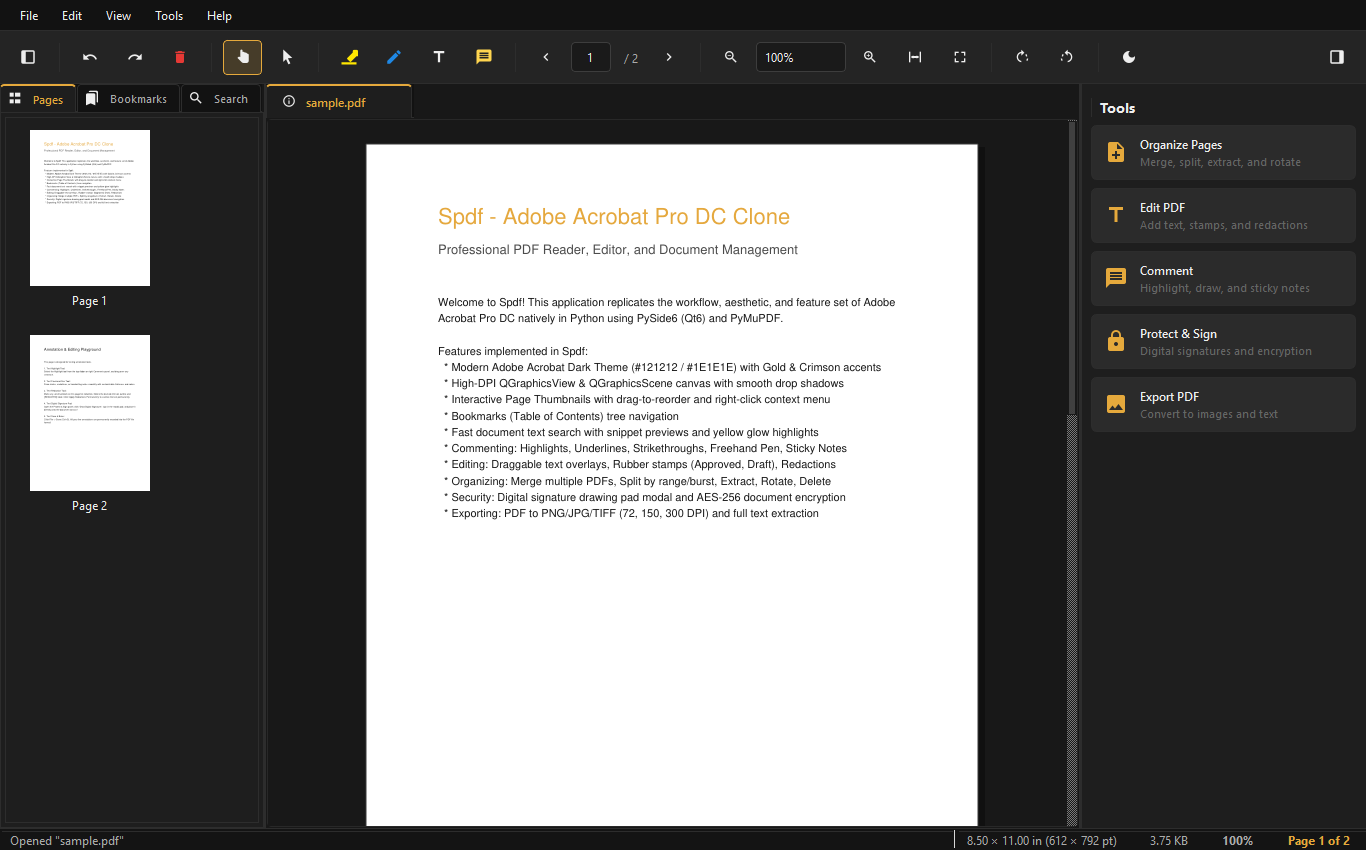
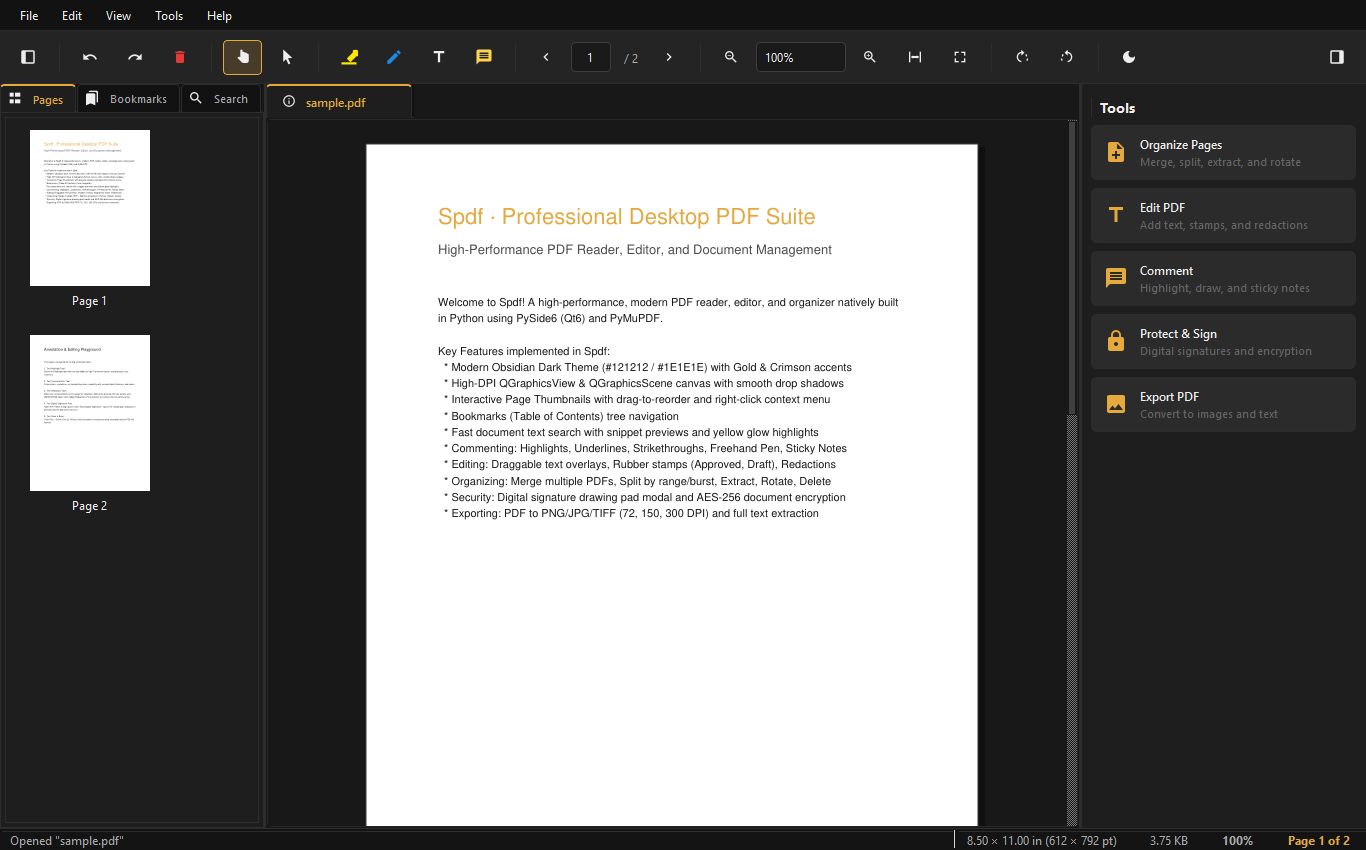
fix: remove all trademark references, update official screenshot and branding

Changed region(s): [[0.3075, 0.3365, 0.6457, 0.4588], [0.3075, 0.2447, 0.6149, 0.3059]]

diff --git a/github_publish.py b/github_publish.py
@@ -1,0 +1,149 @@
+"""
+Script to:
+1. Commit and push updated screenshot and trademark-free files to GitHub.
+2. Set repository topics on GitHub for enhanced search discovery.
+3. Create GitHub Release v1.0.0 and optionally attach the Windows binary zip.
+"""
+
+import subprocess
+import urllib.request
+import json
+import os
+import sys
+
+def get_git_credentials():
+    p = subprocess.Popen(['git', 'credential', 'fill'], stdin=subprocess.PIPE, stdout=subprocess.PIPE, text=True)
+    out, _ = p.communicate(input='protocol=https\nhost=github.com\n\n')
+    username = None
+    token = None
+    for line in out.splitlines():
+        if line.startswith('username='):
+            username = line.split('=', 1)[1]
+        elif line.startswith('password='):
+            token = line.split('=', 1)[1]
+    return username, token
+
+
+def push_updates(token, username):
+    base_dir = os.path.abspath(os.path.dirname(__file__))
+
+    def run_cmd(cmd):
+        print(f"Running: {' '.join(cmd)}")
+        res = subprocess.run(cmd, cwd=base_dir, capture_output=True, text=True)
+        return res
+
+    run_cmd(["git", "add", "."])
+    st = run_cmd(["git", "status", "--porcelain"])
+    if st.stdout.strip():
+        run_cmd(["git", "commit", "-m", "fix: remove all trademark references, update official screenshot and branding"])
+        auth_remote = f"https://{username}:{token}@github.com/{username}/Spdf.git"
+        run_cmd(["git", "remote", "set-url", "origin", auth_remote])
+        push_res = run_cmd(["git", "push", "origin", "main"])
+        clean_url = f"https://github.com/{username}/Spdf.git"
+        run_cmd(["git", "remote", "set-url", "origin", clean_url])
+        if push_res.returncode == 0:
+            print("[SUCCESS] Pushed updated files to GitHub.")
+        else:
+            print("[ERROR] Push failed:", push_res.stderr)
+
+
+def set_repo_topics(token, username, repo_name="Spdf"):
+    url = f"https://api.github.com/repos/{username}/{repo_name}/topics"
+    topics = [
+        "pdf",
+        "pdf-reader",
+        "pdf-editor",
+        "pdf-viewer",
+        "pyside6",
+        "qt6",
+        "pymupdf",
+        "desktop-app",
+        "python",
+        "annotations",
+        "digital-signature",
+        "open-source"
+    ]
+    payload = {"names": topics}
+    headers = {
+        "Authorization": f"Bearer {token}",
+        "Accept": "application/vnd.github.v3+json",
+        "User-Agent": "Spdf-Publisher/1.0"
+    }
+    req = urllib.request.Request(url, data=json.dumps(payload).encode('utf-8'), headers=headers, method="PUT")
+    try:
+        with urllib.request.urlopen(req) as resp:
+            data = json.loads(resp.read().decode())
+            print(f"[SUCCESS] Repository topics set to: {data.get('names')}")
+    except Exception as e:
+        print(f"[ERROR] Setting topics failed: {e}")
+
+
+def create_release(token, username, repo_name="Spdf", tag="v1.0.0"):
+    url = f"https://api.github.com/repos/{username}/{repo_name}/releases"
+    headers = {
+        "Authorization": f"Bearer {token}",
+        "Accept": "application/vnd.github.v3+json",
+        "User-Agent": "Spdf-Publisher/1.0"
+    }
+    
+    release_notes = (
+        "## Spdf v1.0.0 — Initial Official Release\n\n"
+        "Welcome to the first official release of **Spdf**, a modern, high-performance desktop PDF reader, editor, and organizer built natively with Python, PySide6, and PyMuPDF.\n\n"
+        "### 🚀 Key Highlights\n"
+        "- **Modern Obsidian Dark UI**: Deep charcoal canvas with gold (#E5A93C) and crimson accents.\n"
+        "- **High-DPI Page Canvas**: Asynchronous vector page rendering with smooth scrolling, zoom presets, and drop shadows.\n"
+        "- **Rich Annotations**: Highlighting, underlines, strikethroughs, Bezier-smoothed ink pen, text overlays, and sticky notes.\n"
+        "- **Document Organizer**: Merge multiple PDFs, split by custom range/burst, extract pages, rotate CW/CCW, and delete.\n"
+        "- **Security & Privacy**: AES-256 encryption, password protection, interactive digital signature pad, and permanent redactions.\n"
+        "- **Export & Print**: Native Windows printing (Ctrl+P) and multi-format conversion (PNG/JPG/TIFF/TXT).\n"
+        "- **Windows Installer & Standalone Executable**: Instant one-click installation with desktop shortcuts.\n"
+    )
+
+    payload = {
+        "tag_name": tag,
+        "target_commitish": "main",
+        "name": f"Spdf {tag} — Official Release",
+        "body": release_notes,
+        "draft": False,
+        "prerelease": False
+    }
+
+    req = urllib.request.Request(url, data=json.dumps(payload).encode('utf-8'), headers=headers, method="POST")
+    try:
+        with urllib.request.urlopen(req) as resp:
+            data = json.loads(resp.read().decode())
+            release_id = data.get("id")
+            html_url = data.get("html_url")
+            upload_url = data.get("upload_url").split("{?")[0]
+            print(f"[SUCCESS] Release created: {html_url}")
+            return release_id, upload_url, html_url
+    except urllib.error.HTTPError as e:
+        if e.code == 422:
+            print(f"[INFO] Release {tag} already exists.")
+            # Fetch existing release
+            req_get = urllib.request.Request(f"{url}/tags/{tag}", headers=headers)
+            with urllib.request.urlopen(req_get) as resp_get:
+                data = json.loads(resp_get.read().decode())
+                return data.get("id"), data.get("upload_url").split("{?")[0], data.get("html_url")
+        else:
+            print(f"[ERROR] Release creation failed: {e.read().decode()}")
+            raise
+
+
+if __name__ == "__main__":
+    user, tok = get_git_credentials()
+    if not tok:
+        print("No GitHub token found.")
+        sys.exit(1)
+
+    print(f"Authenticated as: {user}")
+    print("1. Pushing cleaned files to GitHub...")
+    push_updates(tok, user)
+
+    print("\n2. Setting repository search topics...")
+    set_repo_topics(tok, user, "Spdf")
+
+    print("\n3. Creating GitHub Release...")
+    rel_id, up_url, rel_url = create_release(tok, user, "Spdf", "v1.0.0")
+
+    print(f"\nAll operations completed! Release URL: {rel_url}")

diff --git a/create_sample.py b/create_sample.py
@@ -8,14 +8,14 @@ doc = fitz.open()
 
 # Page 1: Welcome & Overview
 p1 = doc.new_page(width=612, height=792)
-p1.insert_text(fitz.Point(72, 80), "Spdf - Adobe Acrobat Pro DC Clone", fontsize=22, fontname="helv", color=(0.9, 0.66, 0.24))
-p1.insert_text(fitz.Point(72, 110), "Professional PDF Reader, Editor, and Document Management", fontsize=13, fontname="helv", color=(0.3, 0.3, 0.3))
+p1.insert_text(fitz.Point(72, 80), "Spdf — Professional Desktop PDF Suite", fontsize=22, fontname="helv", color=(0.9, 0.66, 0.24))
+p1.insert_text(fitz.Point(72, 110), "High-Performance PDF Reader, Editor, and Document Management", fontsize=13, fontname="helv", color=(0.3, 0.3, 0.3))
 
 intro = (
-    "Welcome to Spdf! This application replicates the workflow, aesthetic, and feature set "
-    "of Adobe Acrobat Pro DC natively in Python using PySide6 (Qt6) and PyMuPDF.\n\n"
-    "Features implemented in Spdf:\n"
-    "  * Modern Adobe Acrobat Dark Theme (#121212 / #1E1E1E) with Gold & Crimson accents\n"
+    "Welcome to Spdf! A high-performance, modern PDF reader, editor, and organizer "
+    "natively built in Python using PySide6 (Qt6) and PyMuPDF.\n\n"
+    "Key Features implemented in Spdf:\n"
+    "  * Modern Obsidian Dark Theme (#121212 / #1E1E1E) with Gold & Crimson accents\n"
     "  * High-DPI QGraphicsView & QGraphicsScene canvas with smooth drop shadows\n"
     "  * Interactive Page Thumbnails with drag-to-reorder and right-click context menu\n"
     "  * Bookmarks (Table of Contents) tree navigation\n"

diff --git a/spdf/ui/right_tools/tools_panel.py b/spdf/ui/right_tools/tools_panel.py
@@ -1,5 +1,5 @@
 """
-Right Collapsible Tools Panel for Spdf (Adobe Acrobat Pro DC Style).
+Right Collapsible Tools Panel for Spdf.
 Houses the quick tools switcher and dedicated sub-panels for Organize Pages,
 Edit PDF, Comment & Annotate, Protect & Sign, and Export / Convert.
 """
@@ -20,7 +20,7 @@ from spdf.icons import get_icon
 
 
 class CategoryCard(QFrame):
-    """Clickable card for each Acrobat Pro DC tool category."""
+    """Clickable card for each PDF tool category."""
     clicked = Signal()
 
     def __init__(self, title: str, icon_name: str, desc: str, parent=None):
@@ -68,7 +68,7 @@ class CategoryCard(QFrame):
 
 
 class ToolsHubView(QWidget):
-    """Initial tools menu showing the 5 Acrobat Pro categories."""
+    """Initial tools menu showing the 5 primary tool categories."""
     categorySelected = Signal(int)
 
     def __init__(self, parent=None):

diff --git a/spdf/ui/menu_bar.py b/spdf/ui/menu_bar.py
@@ -1,6 +1,6 @@
 """
 Main Menu Bar for Spdf.
-Implements the Adobe Acrobat Pro DC menu hierarchy: File, Edit, View, Tools, and Help.
+Implements the professional menu hierarchy: File, Edit, View, Tools, and Help.
 """
 
 import os
@@ -276,7 +276,7 @@ class SpdfMenuBar(QMenuBar):
             f"<p>Version {APP_VERSION}</p>"
             f"<p>A complete, high-performance PDF Reader, Editor, and Management system "
             f"built with Python, PySide6, and PyMuPDF.</p>"
-            f"<p>Full Adobe Acrobat Pro DC layout, asynchronous high-DPI rendering, "
+            f"<p>Modern dark theme interface, asynchronous high-DPI rendering, "
             f"annotation baking, page manipulation, digital signatures, and AES-256 encryption.</p>"
         )
         QMessageBox.about(self, f"About {APP_NAME}", about_text)

diff --git a/spdf/ui/tab_manager.py b/spdf/ui/tab_manager.py
@@ -1,6 +1,6 @@
 """
 Multi-Document Tab Manager for Spdf.
-Manages simultaneous open PDF documents in Acrobat-style tabs, with modified indicators,
+Manages simultaneous open PDF documents in modern multi-document tabs, with modified indicators,
 tab closures, and an elegant Home / Empty State screen when no files are open.
 """
 
@@ -34,7 +34,7 @@ from spdf.utils.helpers import RecentFilesManager, format_file_size
 
 
 class HomeScreenWidget(QWidget):
-    """Welcoming Adobe Acrobat Pro DC style home screen when no PDF is active."""
+    """Welcoming home screen when no PDF is active."""
     openRequested = Signal()
     blankRequested = Signal()
     mergeRequested = Signal()

diff --git a/spdf/ui/main_window.py b/spdf/ui/main_window.py
@@ -1,5 +1,5 @@
 """
-Main Application Window for Spdf (Adobe Acrobat Pro DC Clone).
+Main Application Window for Spdf - Professional Desktop PDF Suite.
 Assembles the menu bar, ribbon bar, left collapsible sidebar, center tabbed workspace,
 right collapsible tools panel, and status bar into a unified, high-performance interface.
 """
@@ -25,7 +25,7 @@ from spdf.utils.helpers import RecentFilesManager
 
 
 class MainWindow(QMainWindow):
-    """Adobe Acrobat Pro DC clone top-level application window."""
+    """Spdf top-level application window."""
     def __init__(self, initial_pdf: str = None):
         super().__init__()
         self.setWindowTitle(APP_TITLE)

diff --git a/upload_to_github.py b/upload_to_github.py
@@ -79,7 +79,7 @@ def git_commit_and_push(remote_url, token, username):
         run_cmd([
             "git", "commit", "-m",
             "feat: initial release of Spdf - Professional Desktop PDF Suite v1.0.0\n\n"
-            "- Modern Adobe Acrobat DC style dark UI\n"
+            "- Modern luxury obsidian dark theme UI\n"
             "- High-DPI page canvas with asynchronous rendering\n"
             "- Complete annotation suite (Highlights, Underline, Ink pen, Text overlays, Sticky notes)\n"
             "- Document organizer (Merge, Split, Extract, Rotate, Delete pages)\n"

diff --git a/spdf/ui/annotation_items.py b/spdf/ui/annotation_items.py
@@ -170,7 +170,7 @@ class DraggableTextItem(QGraphicsTextItem, AnnotationBase):
 
 
 class StickyNoteItem(QGraphicsItem, AnnotationBase):
-    """Acrobat-style Sticky Note icon with click-to-edit comment."""
+    """Interactive Sticky Note icon with click-to-edit comment."""
     def __init__(self, pos: QPointF, text: str = "Sticky Note",
                  color_hex: str = Colors.ANNOT_NOTE, page_idx: int = 0, parent=None):
         super().__init__(parent)

diff --git a/spdf/style.py b/spdf/style.py
@@ -1,6 +1,6 @@
 """
 Comprehensive QSS Stylesheet for Spdf.
-Implements the Adobe Acrobat Pro DC modern dark theme with deep charcoal/black
+Implements the modern obsidian dark theme with deep charcoal/black
 surfaces (#121212, #1E1E1E, #252525), crisp borders (#2D2D2D), and gold/amber highlights (#E5A93C).
 """
 

diff --git a/main.py b/main.py
@@ -1,6 +1,6 @@
 """
 Spdf - Professional PDF Reader, Editor, and Management Application.
-Replicating the layout, workflow, and feature set of Adobe Acrobat Pro DC.
+A high-performance desktop PDF suite built with Python and PySide6.
 
 Entry point for launching the desktop application.
 """

diff --git a/spdf/__init__.py b/spdf/__init__.py
@@ -1,6 +1,6 @@
 """
 Spdf - Professional PDF Reader, Editor, and Management Application
-Replicating the layout, workflow, and feature set of Adobe Acrobat Pro DC.
+A modern, high-performance desktop PDF suite built with PySide6 and PyMuPDF.
 """
 
 __app_name__ = "Spdf"

diff --git a/spdf/config.py b/spdf/config.py
@@ -21,7 +21,7 @@ class ToolMode(Enum):
 
 
 class Colors:
-    # Adobe Acrobat Pro DC Dark Theme Palette
+    # Modern Luxury Obsidian Dark Theme Palette
     BG_MAIN = "#121212"
     BG_WORKSPACE = "#181818"
     BG_PANEL = "#1E1E1E"
